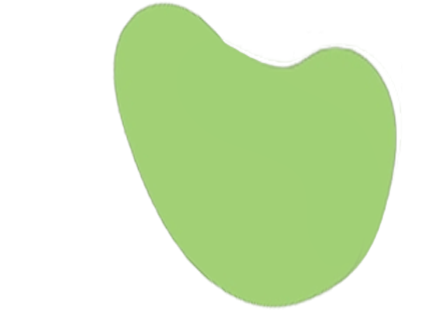
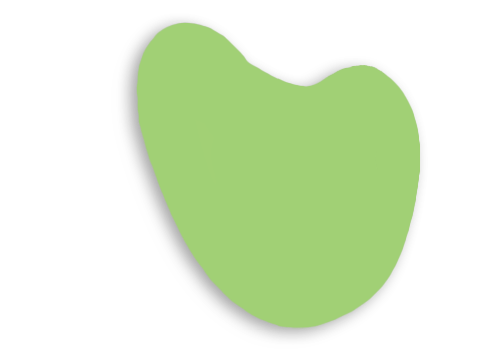
updated
shape,positions and text

Changed region(s): [[0.2402, 0.0, 0.9307, 1.0]]

diff --git a/index.html b/index.html
@@ -85,18 +85,19 @@
               
              <div class="col-md-6 col-sm-12 col-xs-12">
                 <div class="AbIMG">
-                    <img src="assets/sh.png" class="shapee">
+                    <img src="assets/shape.png" class="shapee">
                     <img src="assets/fille1.png" class="Assil">
                 </div>
              </div>
                
              <div class="col-md-6 col-sm-12 col-xs-12">
                <div class="about-me section-space-padding">
-                 
-                 <h2>About Me.</h2>
-                 
-                 <p>Lorem ipsum dolor sit amet, consectetur adipiscing elit, sed do eiusmod tempor incididunt ut labore et dolore magna aliqua. Ut enim ad minim veniam, quis nostrud exercitation ullamco laboris nisi ut aliquip ex ea commodo consequat. Duis aute irure dolor in reprehenderit in voluptate velit esse cillum dolore eu fugiat nulla pariatur. Excepteur sint occaecat cupidatat non proident, sunt in culpa qui officia deserunt mollit anim id est laborum.</p>
-                </div>
+                    <h1>About Me</h1>
+                    <p>Hello! I'm Assil Tekaya, a second-year Computer Science student specializing in Software Engineering & Information Systems. I have a deep passion for web and mobile development, as well as a keen interest in AI and emerging technologies.I am a self-taught web and mobile developer, continuously learning and expanding my skills through independent study and hands-on projects.<br> Beyond my academic pursuits, I indulge in a variety of hobbies including painting, playing the piano and guitar, and engaging in graphic design with tools like Photoshop and Blender. I am an avid sports enthusiast, enjoying tennis and windsurfing, and I love exploring new places, having traveled to 11 countries.<br><br>
+   
+                       My extracurricular activities are just as diverse. I am actively involved in university and external clubs such as IEEE and the Microsoft Club, and I dedicate my time to volunteer work with the Scouts and the Red Crescent. As a leader in the Scouts, I hone my skills in leadership and team management. Additionally, I am trained in First Aid and Emergency Care, which enables me to contribute effectively in various situations. I thrive on staying active, whether it's through sports, camping, or participating in community service.</p>
+
+               </div>
             
              </div>
                

diff --git a/style.css b/style.css
@@ -396,6 +396,7 @@ body.loaded #preloader{
     letter-spacing: 6px;
     font-weight: 900;
     font-size: 14px;
+    
 }
 
 .navigation-menu .navbar-nav li a {
@@ -462,15 +463,21 @@ body.loaded #preloader{
     position: absolute;
 }
 
-.about-me {}
-
-.about-me h2 {
-    padding: 0px 50px;
+.about-me h1 {
+    font-family: 'Poppins', sans-serif; /* Apply the Poppins font */
+    padding: 10px 50px; /* Adjust padding to ensure proper spacing */
+    margin-bottom: 33px; /* Adjust margin-bottom to increase space between heading and paragraph */
+    margin-left: -66px;
+    margin-top: 11px;
+    
 }
 
 .about-me p {
-    padding: 50px;
+    padding: 20px 50px; /* Adjust padding for space inside the paragraph */
+    margin-left: -66px; /* Move the paragraph further to the left */
     font-size: 15px;
+    margin-right: 20px; /* Optional: Ensure space on the right side as well */
+    margin-top: -46px;
 }
 
 .AbIMG {
@@ -479,29 +486,31 @@ body.loaded #preloader{
 }
 
 .shapee {
-    width: 86%; /* Adjust the percentage to resize the image */
+    width: 120%; /* Adjust the percentage to resize the image */
     position: absolute;
-    top: 90px; /* Move the image down */
-    left: 20%;
-    transition: top 1s, transform 1s; /* Ensure smooth transition */
+    top: 100px; /* Move the image down */
+    left: -88px; /* Move the image to the left initially */
+    transition: top 1s,  transform 1s; /* Ensure smooth transition */
 }
 
 .Assil {
-    width: 74%; /* Adjust the percentage to resize the image */
+    width: 100%; /* Adjust the percentage to resize the image */
     position: absolute;
-    top: 90px; /* Move the image down */
-    left: 19%;
+    top: 155px; /* Move the image down */
+    left: -20px; /* Position the image from the left edge */
     transition: transform 1s; /* Ensure smooth transition */
 }
 
 .AbIMG:hover .shapee {
     top: 130px; /* Move the image further down */
-    transform: rotateX(-10);
+     /* Adjust the left position on hover if needed */
+    transform: rotateX(-10deg); /* Ensure proper degree value */
 }
 
 .AbIMG:hover .Assil {
     transform: scale(1.1); /* Zoom the image */
 }
+
 
 
 
